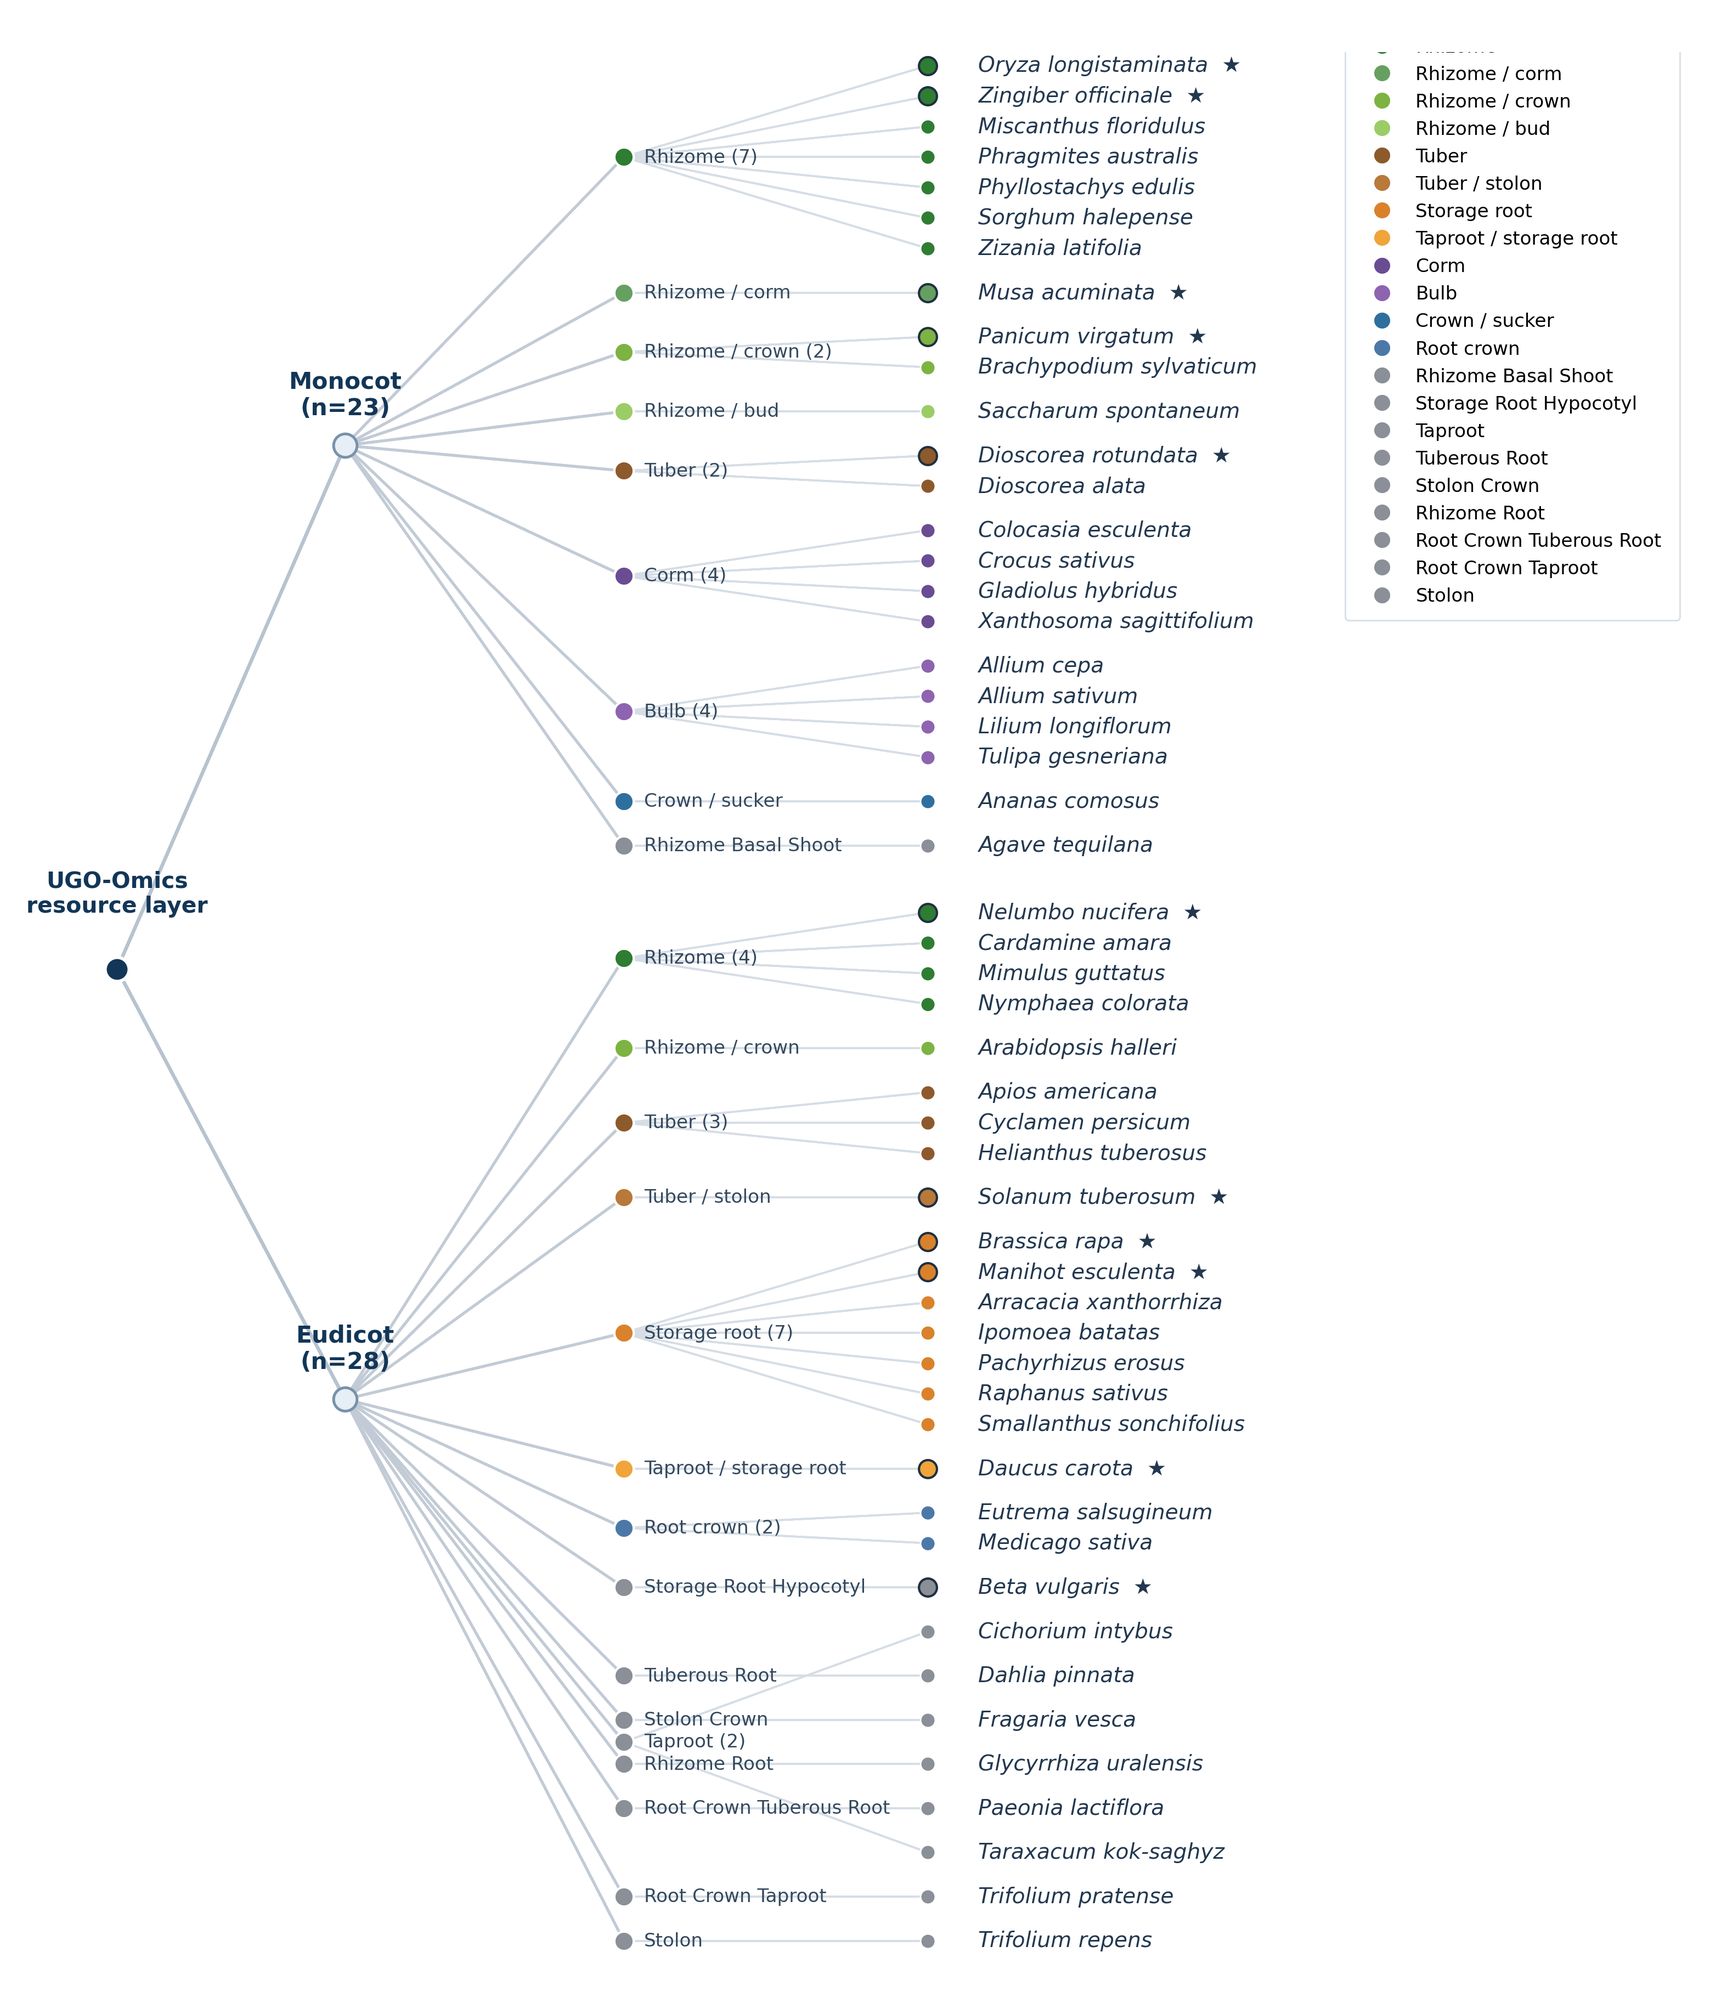
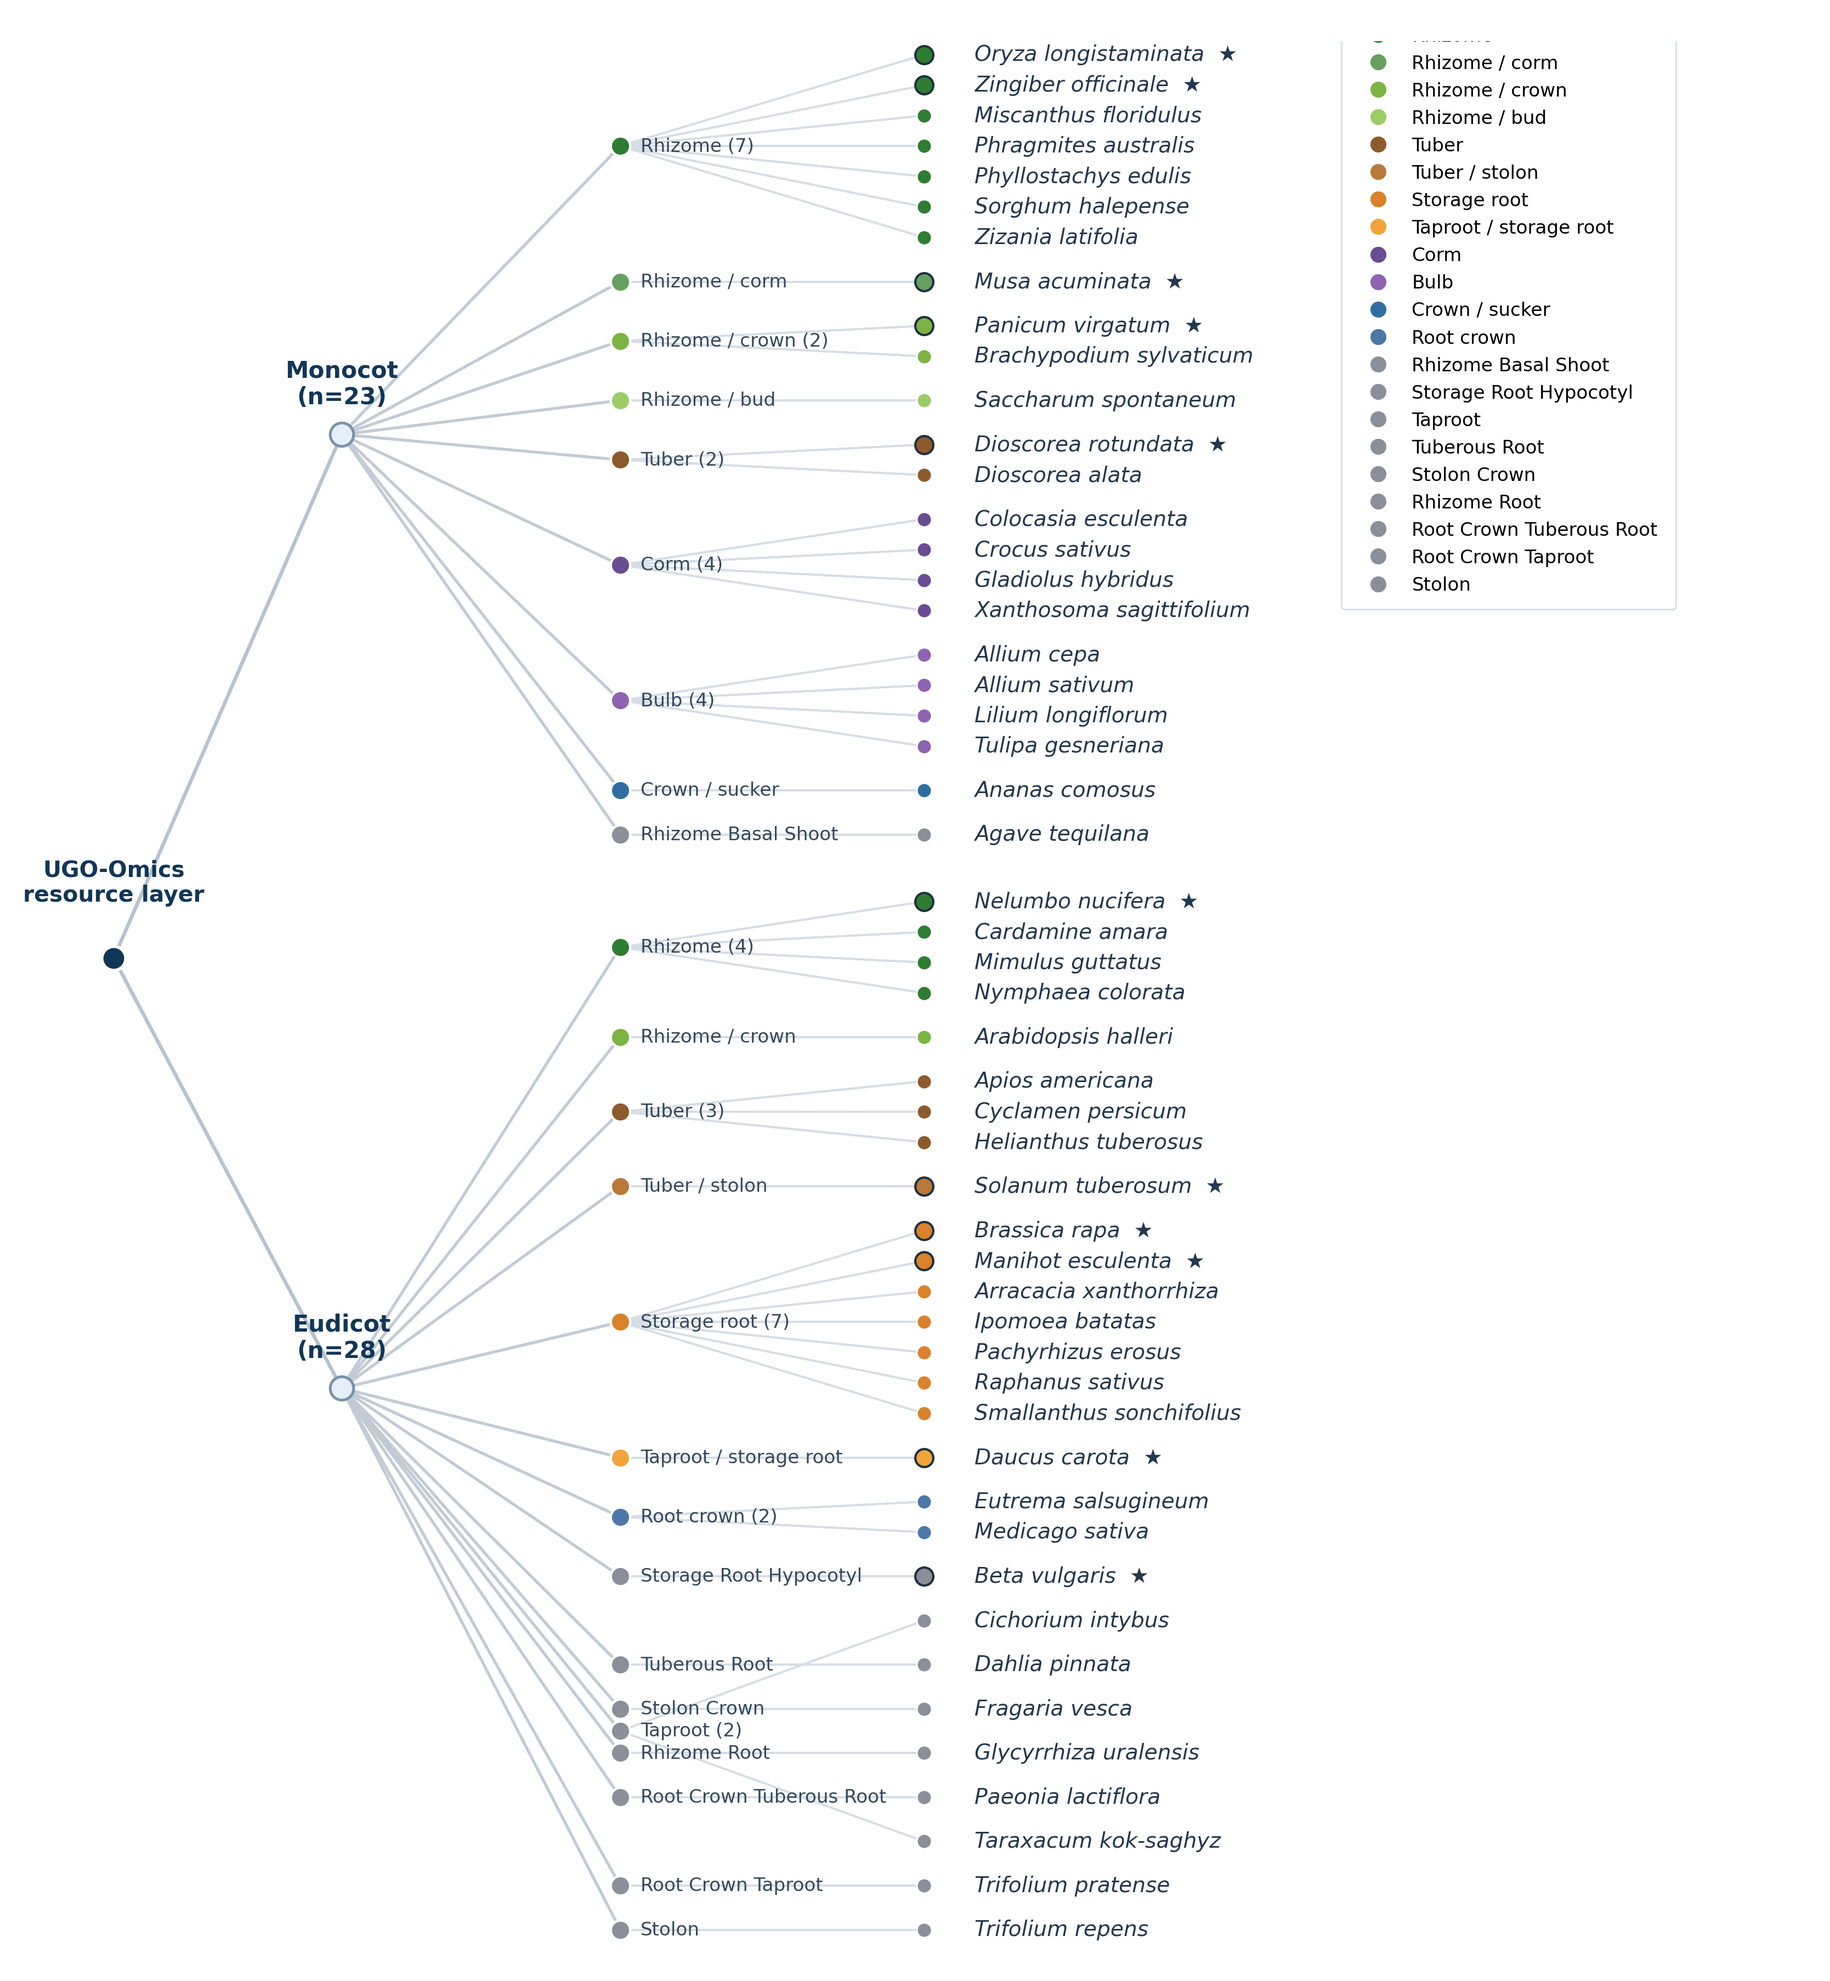
Restore full phylogeny legend and enlarge homepage cards

diff --git a/docs/index.html b/docs/index.html
@@ -1,3 +1,4 @@
+<!-- UGO_V5_3_18_FULL_LEGEND_BIGGER_PHYLOGENY 2026-06-04 15:11:11 -->
 <!-- UGO_V5_3_17_RESTORE_PHYLOGENY_LEGEND_SHIFT_LEFT 2026-06-04 14:06:47 -->
 <!-- UGO_V5_3_16_EQUAL_CARDS_SHIFT_PHYLOGENY_LEFT 2026-06-04 14:01:31 -->
 <!-- UGO_V5_3_14_ENLARGE_HOME_PHYLOGENY_BOARD 2026-06-04 13:18:56 -->
@@ -1804,9 +1805,11 @@ body.ugo-v5-2-52-non-home-view #home-key-results {
 
 
 
-<style id="ugo-v5-3-17-restore-phylogeny-legend-shift-left-style">
+
+
+<style id="ugo-v5-3-18-full-legend-bigger-phylogeny-style">
 /* ============================================================
-   v5.3.17: restore phylogeny legend and shift image left.
+   v5.3.18: full legend + bigger Home phylogeny.
    Scope: Home key-results and footer only.
    Does not modify navigation, dropdowns, or non-Home page logic.
    ============================================================ */
@@ -1826,10 +1829,10 @@ body.ugo-v5-2-52-non-home-view #home-key-results {
 
 /* two equal white cards */
 #home-key-results .ugo-v5-2-51-results-grid {
-  width: calc(100vw - 72px) !important;
+  width: calc(100vw - 64px) !important;
   max-width: none !important;
-  margin-left: calc(50% - 50vw + 36px) !important;
-  margin-right: calc(50% - 50vw + 36px) !important;
+  margin-left: calc(50% - 50vw + 32px) !important;
+  margin-right: calc(50% - 50vw + 32px) !important;
   margin-top: 0 !important;
   margin-bottom: 0 !important;
   display: grid !important;
@@ -1850,10 +1853,10 @@ body.ugo-v5-2-52-non-home-view #home-key-results {
   overflow: hidden !important;
 }
 
-/* equal card heights */
+/* Use the bottom space by making both boards taller */
 #home-key-results .ugo-v5-2-51-result-image {
-  height: calc(100vh - 92px) !important;
-  min-height: 900px !important;
+  height: calc(100vh - 54px) !important;
+  min-height: 1040px !important;
   max-height: none !important;
   width: 100% !important;
   padding: 0 !important;
@@ -1865,12 +1868,12 @@ body.ugo-v5-2-52-non-home-view #home-key-results {
   justify-content: center !important;
 }
 
-/* Shift the full phylogeny+legend image slightly left within the card */
+/* Full phylogeny + legend image, slightly left-weighted but not clipped */
 #home-key-results .ugo-v5-2-51-result-card:first-child .ugo-v5-2-51-result-image img {
   width: 100% !important;
   height: 100% !important;
   object-fit: contain !important;
-  object-position: 38% center !important;
+  object-position: 42% center !important;
   display: block !important;
   padding: 0 !important;
   margin: 0 !important;
@@ -1878,7 +1881,7 @@ body.ugo-v5-2-52-non-home-view #home-key-results {
   transform: none !important;
 }
 
-/* keep recurrent module card visually matched */
+/* Keep the recurrent module card matched */
 #home-key-results .ugo-v5-2-51-result-card:nth-child(2) .ugo-v5-2-51-result-image img {
   width: 100% !important;
   height: 100% !important;
